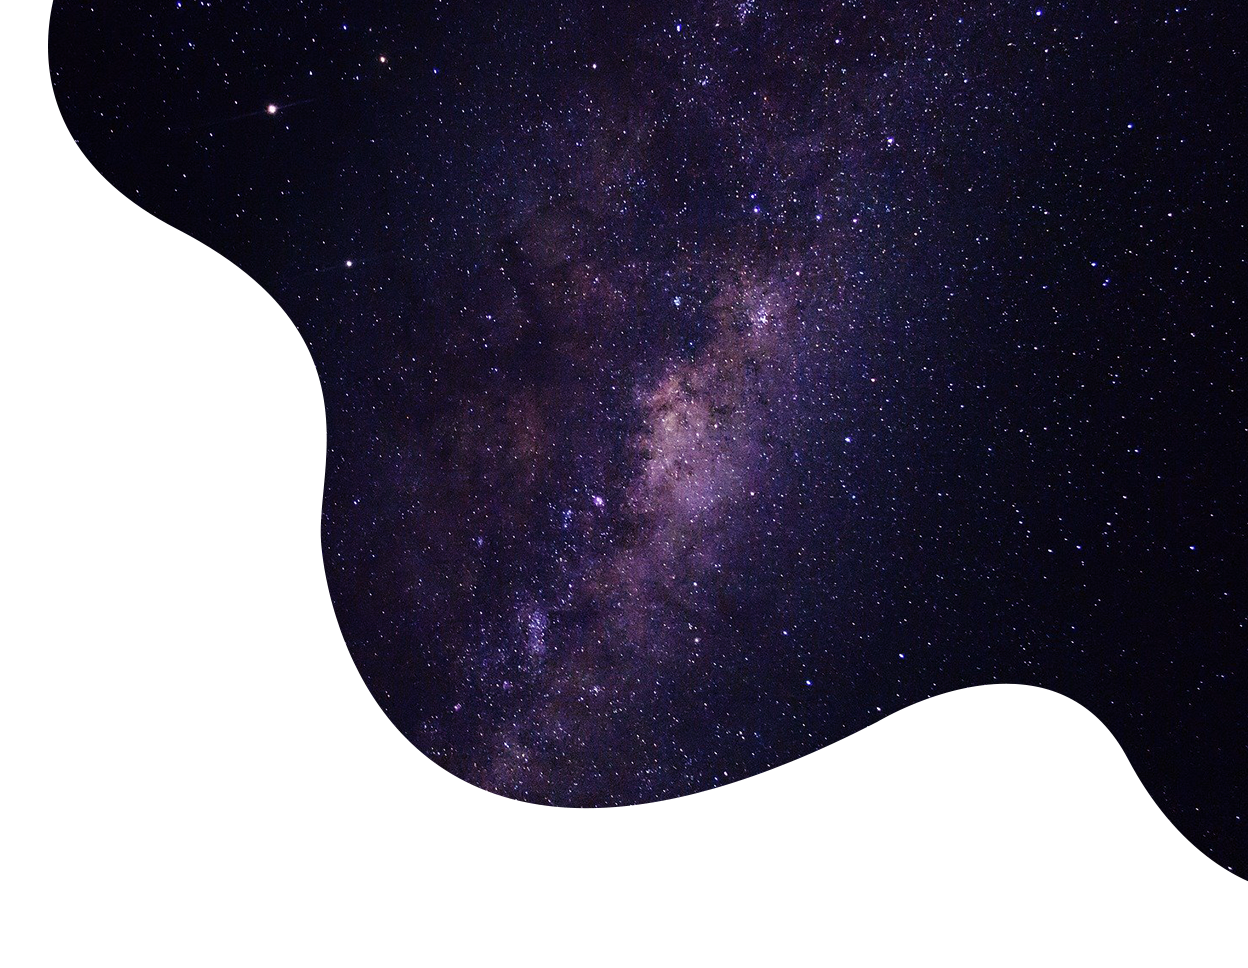
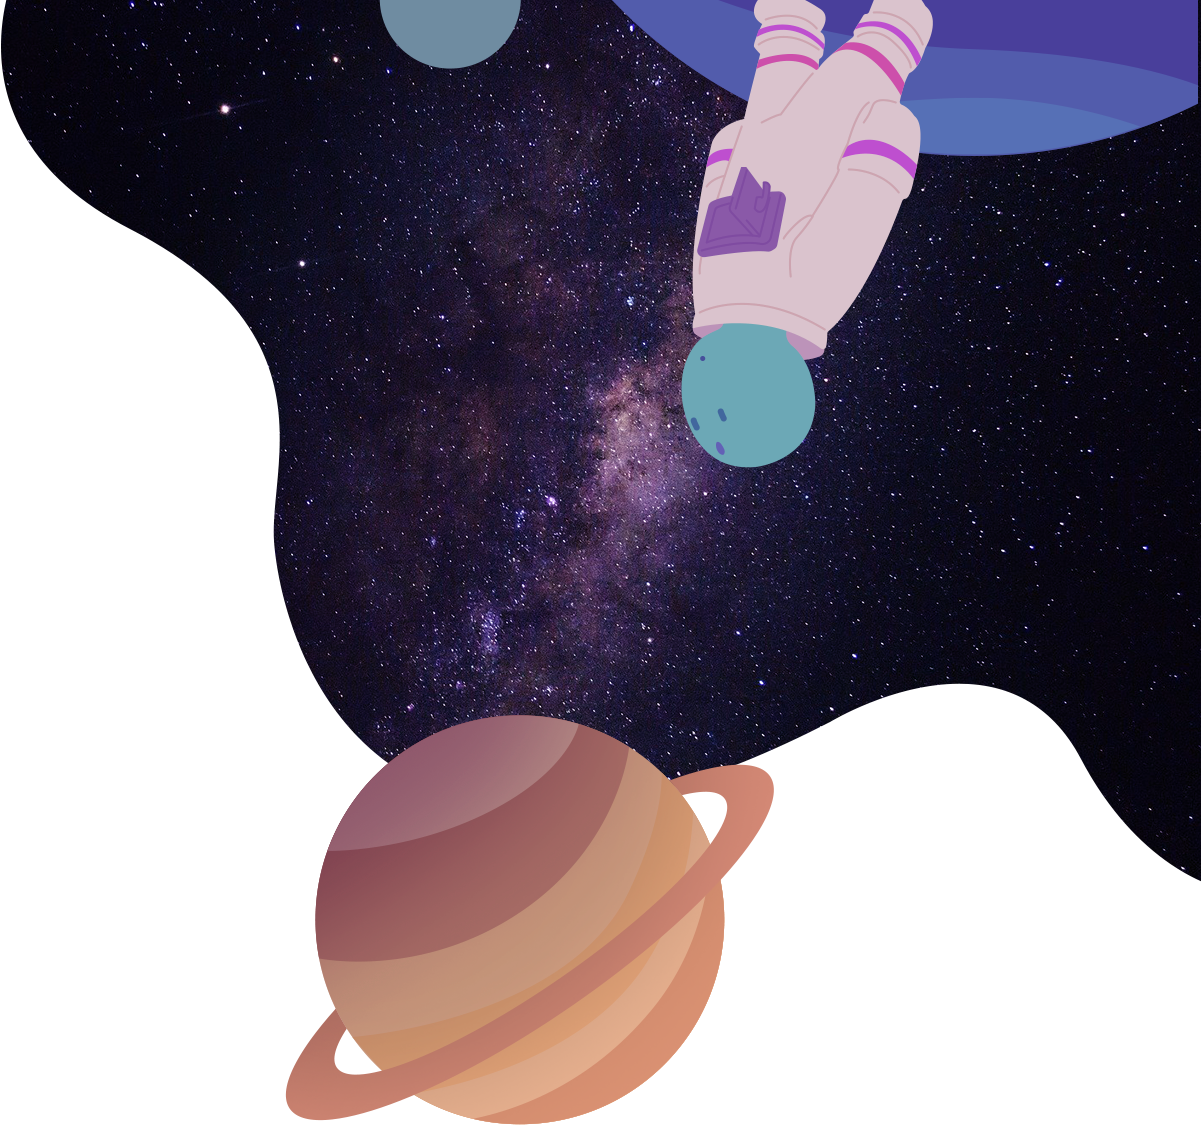
갱신

diff --git a/index.html b/index.html
@@ -1,10 +1,29 @@
 <!DOCTYPE html>
 <html lang="en" dir="ltr">
-  <head>
-    <meta charset="utf-8">
-    <title></title>
-  </head>
-  <body>
- <p>nongdamgom so cute and handsome and lovely</p>
-  </body>
+
+<head>
+  <meta charset="utf-8">
+  <meta name="viewport" content="width=device-width, initial-scale=1, shrink-to-fit=no">
+
+  <link rel="stylesheet" href="https://stackpath.bootstrapcdn.com/bootstrap/4.5.2/css/bootstrap.min.css" integrity="sha384-JcKb8q3iqJ61gNV9KGb8thSsNjpSL0n8PARn9HuZOnIxN0hoP+VmmDGMN5t9UJ0Z" crossorigin="anonymous">
+  <link rel="stylesheet" href="https://unpkg.com/swiper/swiper-bundle.min.css">
+  <link rel="stylesheet" href="css/style.css">
+
+  <title>이수지 포트폴리오</title>
+</head>
+
+<body>
+      <div class="container">
+        <div class="star_2"><img src="img/mainpage_star_2.png"></div>
+        <div class="star_3"><img src="img/mainpage_star_3.png"></div>
+        <div class="illust_1"><img src="img/mainpage_illust_1.png"></div>
+
+      </div>
+
+  <script src="https://code.jquery.com/jquery-3.5.1.slim.min.js" integrity="sha384-DfXdz2htPH0lsSSs5nCTpuj/zy4C+OGpamoFVy38MVBnE+IbbVYUew+OrCXaRkfj" crossorigin="anonymous"></script>
+  <script src="https://cdn.jsdelivr.net/npm/popper.js@1.16.1/dist/umd/popper.min.js" integrity="sha384-9/reFTGAW83EW2RDu2S0VKaIzap3H66lZH81PoYlFhbGU+6BZp6G7niu735Sk7lN" crossorigin="anonymous"></script>
+  <script src="https://stackpath.bootstrapcdn.com/bootstrap/4.5.2/js/bootstrap.min.js" integrity="sha384-B4gt1jrGC7Jh4AgTPSdUtOBvfO8shuf57BaghqFfPlYxofvL8/KUEfYiJOMMV+rV" crossorigin="anonymous"></script>
+  <script src="https://unpkg.com/swiper/swiper-bundle.min.js"></script>
+</body>
+
 </html>

diff --git a/css/style.css b/css/style.css
@@ -1,0 +1,24 @@
+body{
+  background-image: url(../img/mainpage_space_1.png);
+  background-repeat: no-repeat;
+  background-position: right top;
+}
+
+.illust_1{
+  position: absolute;
+  right: 570px;
+  top: 340px;
+  size: 90%
+}
+
+.star_3{
+  position: absolute;
+  right: 100px;
+  top: 580px;
+}
+
+.star_2{
+  position: absolute;
+  right: 345px;
+  top: 895px;
+}
